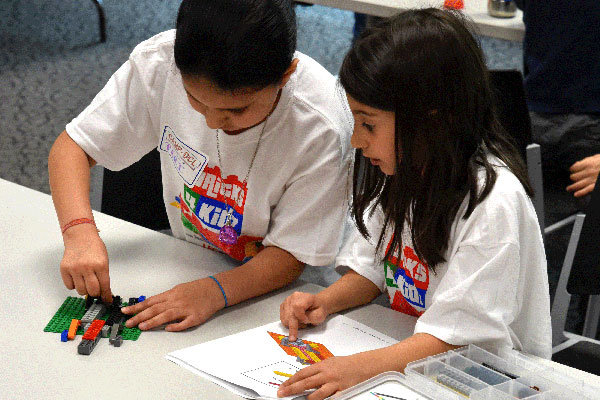
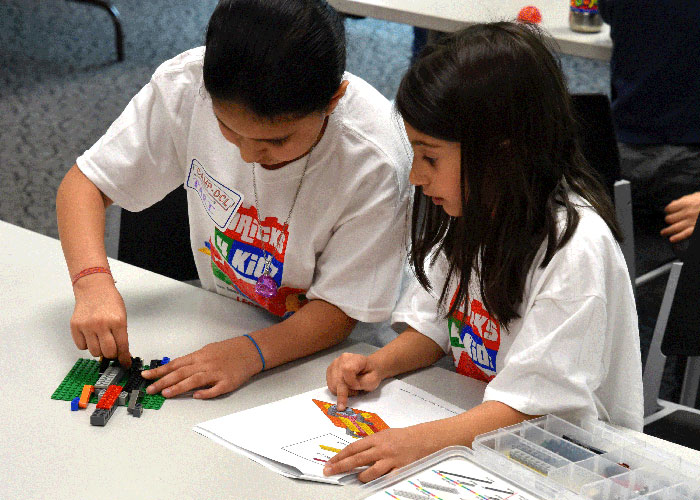
resize images and cleanup

diff --git a/camp-dcl/index.html b/camp-dcl/index.html
@@ -273,16 +273,16 @@ height="0" width="0" style="display:none;visibility:hidden"></iframe>
   <div class="row margin-bottom-30">
     <div class="container">
       <div class="col-md-6 padding-bottom-15"><img class="img-responsive image-center shadow-low" src="builder.jpg" alt="Be a Builder">
-        <h2 class="text-center">Be a Builder<br><span class="text-uppercase small">Ages 6-12, $165 per session</span></h2>
-        <ul class="list-unstyled text-center">
+        <h2 class="text-center">Be a Builder<br><span class="text-uppercase small">Ages 6-12, $165 per session</span></h2><div class="margin-bottom-15">Big and small, kids design and build it all in this weeklong, half-day camp.  Projects include collapsible cardboard forts, wooden birdhouses and experimenting with stone, brick, and mortar.  </div>
+        <ul class="list-unstyled">
           <li class="margin-bottom-10"><a href="https://douglascountylibraries.evanced.info/signup/EventDetails?EventId=134788" target="_blank">Monday, March 19-Friday, March 23, 9AM-12:30PM, Castle Pines</a></li>
           <li class="margin-bottom-10"><a href="https://douglascountylibraries.evanced.info/signup/EventDetails?EventId=134794" target="_blank">Monday, March 19-Friday, March 23, 1:30-5PM, Castle Rock</a></li>
           <li class="margin-bottom-10"><a href="https://douglascountylibraries.evanced.info/signup/EventDetails?EventId=134799" target="_blank">Monday, March 19-Friday, March 23, 1:30-5PM, Highlands Ranch</a></li>
         </ul>
       </div>
       <div class="col-md-6 padding-bottom-15"><img class="img-responsive image-center shadow-low" src="chef.jpg" alt="Be a STEAM-y Chef">
-        <h2 class="text-center">Be a STEAM-y Chef<br><span class="text-uppercase small">Ages 6-12, $155 per session</span></h2>
-        <ul class="list-unstyled text-center">
+		  <h2 class="text-center">Be a STEAM-y Chef<br><span class="text-uppercase small">Ages 6-12, $155 per session</span></h2><div class="margin-bottom-15">Cooking is both an art and a science in this weeklong, half-day camp. Kids will make two recipes each day and learn STEAM concepts like the science of taste and genetic modification. </div>
+        <ul class="list-unstyled">
           <li class="margin-bottom-10"><a href="https://douglascountylibraries.evanced.info/signup/EventDetails?EventId=125821" target="_blank">Monday, March 19-Friday, March 23, 9AM-12:30PM, Lone Tree</a></li>
           <li class="margin-bottom-10"><a href="https://douglascountylibraries.evanced.info/signup/EventDetails?EventId=134778" target="_blank">Monday, March 19-Friday, March 23, 9AM-12:30PM, Parker</a></li>
           <li class="margin-bottom-10"><a href="https://douglascountylibraries.evanced.info/signup/EventDetails?EventId=134783" target="_blank">Monday, March 19-Friday, March 23, 1:30-5PM, Roxborough</a></li>
